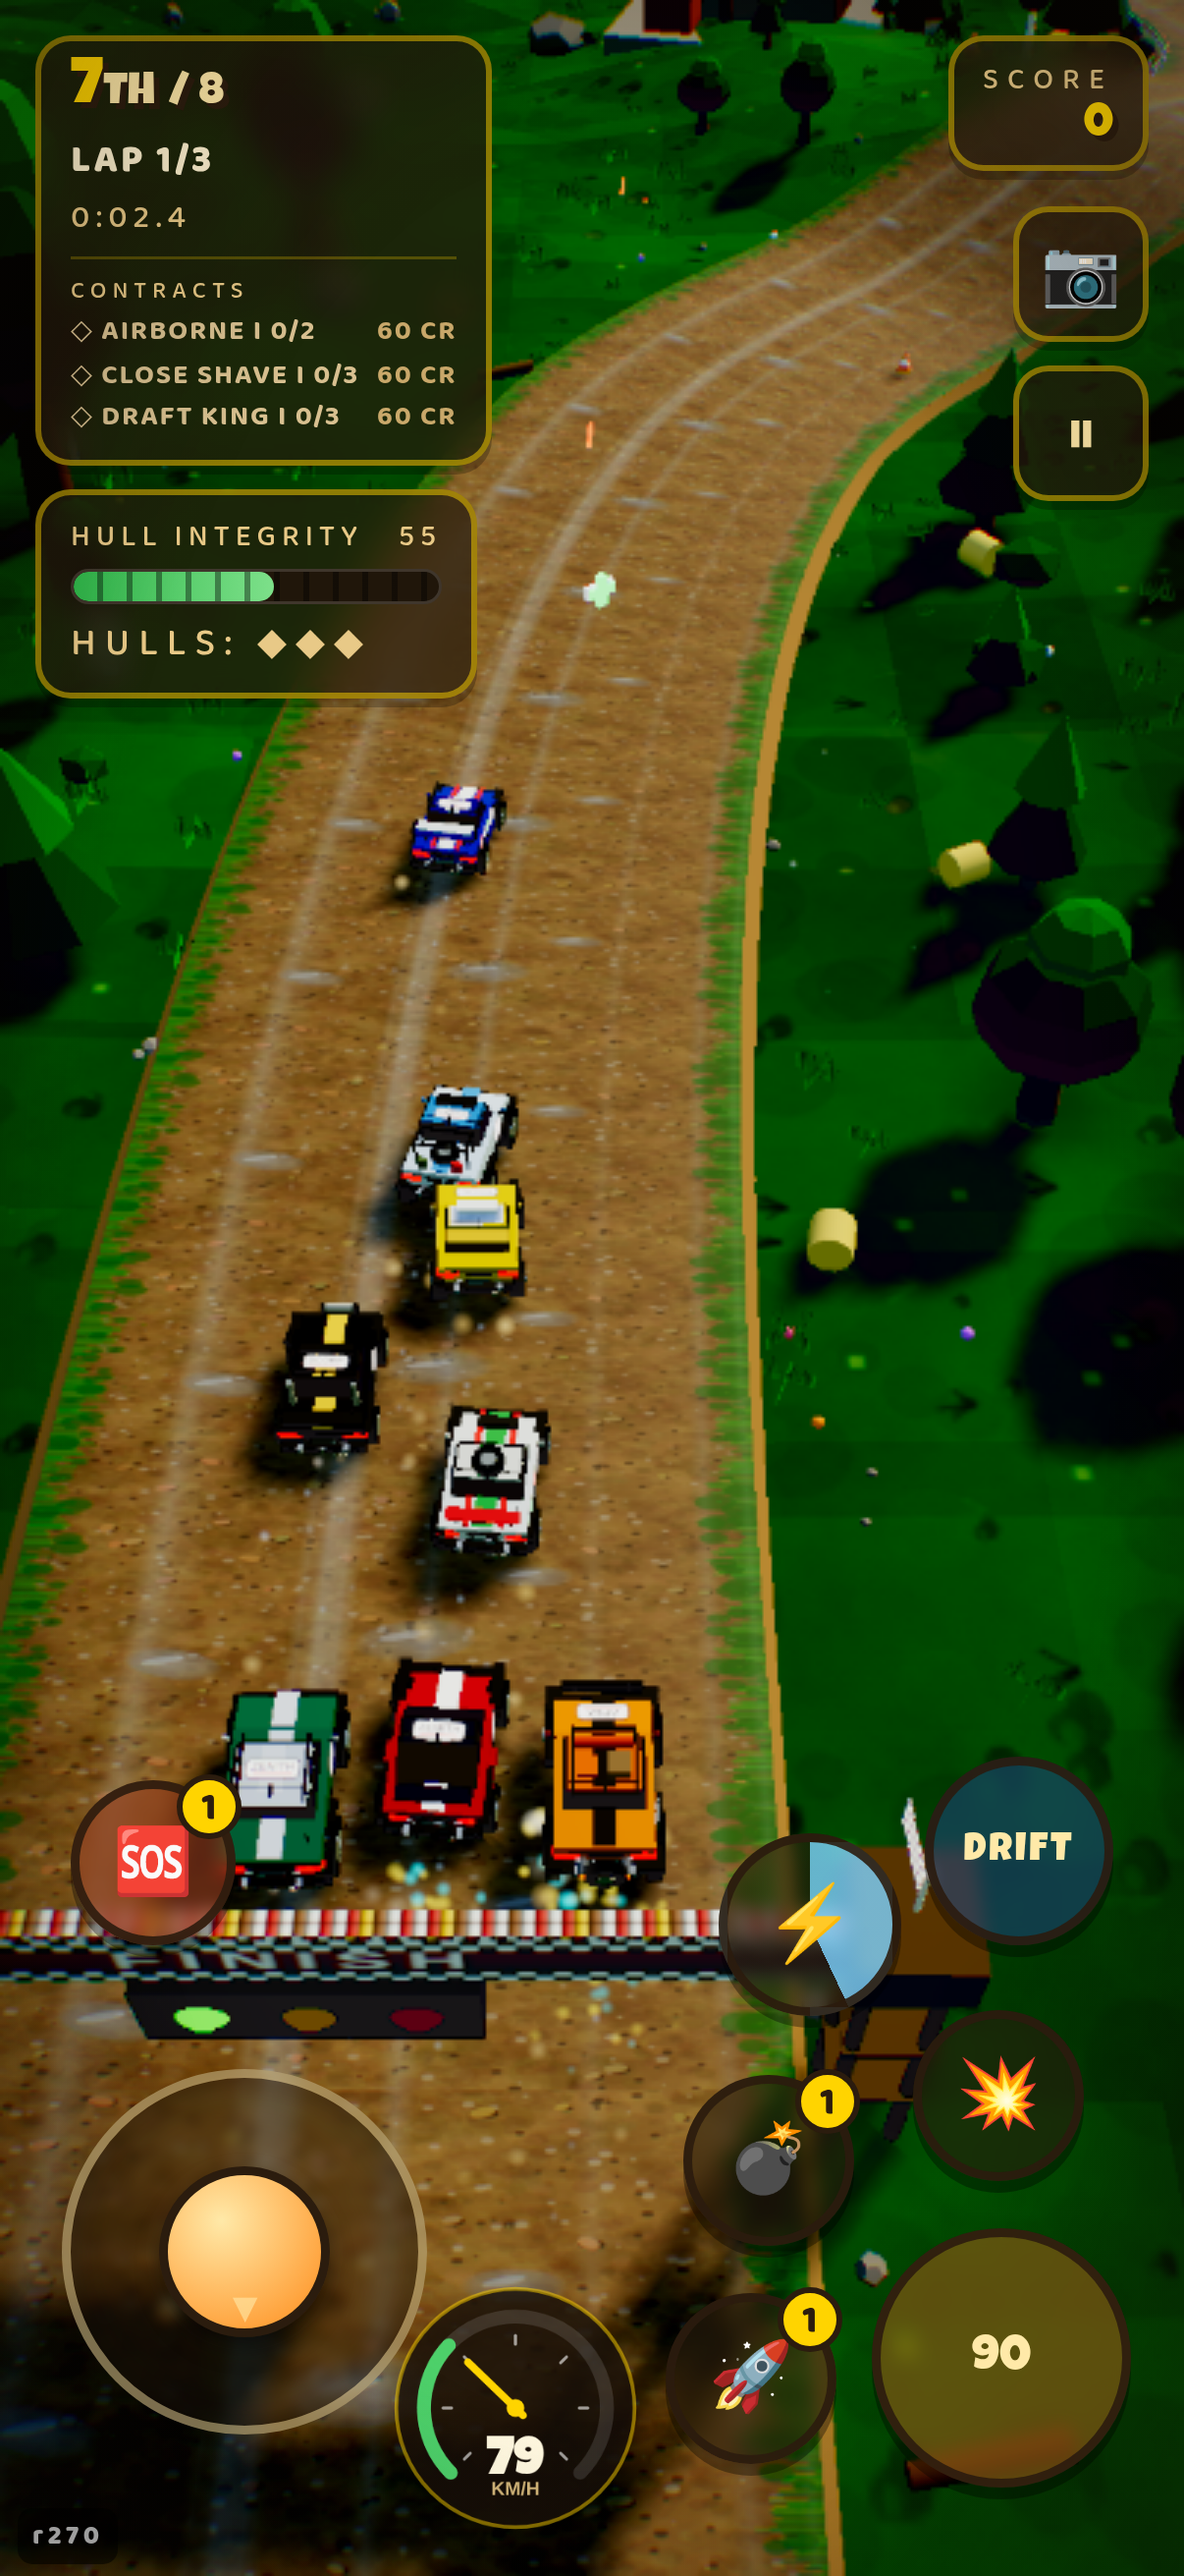
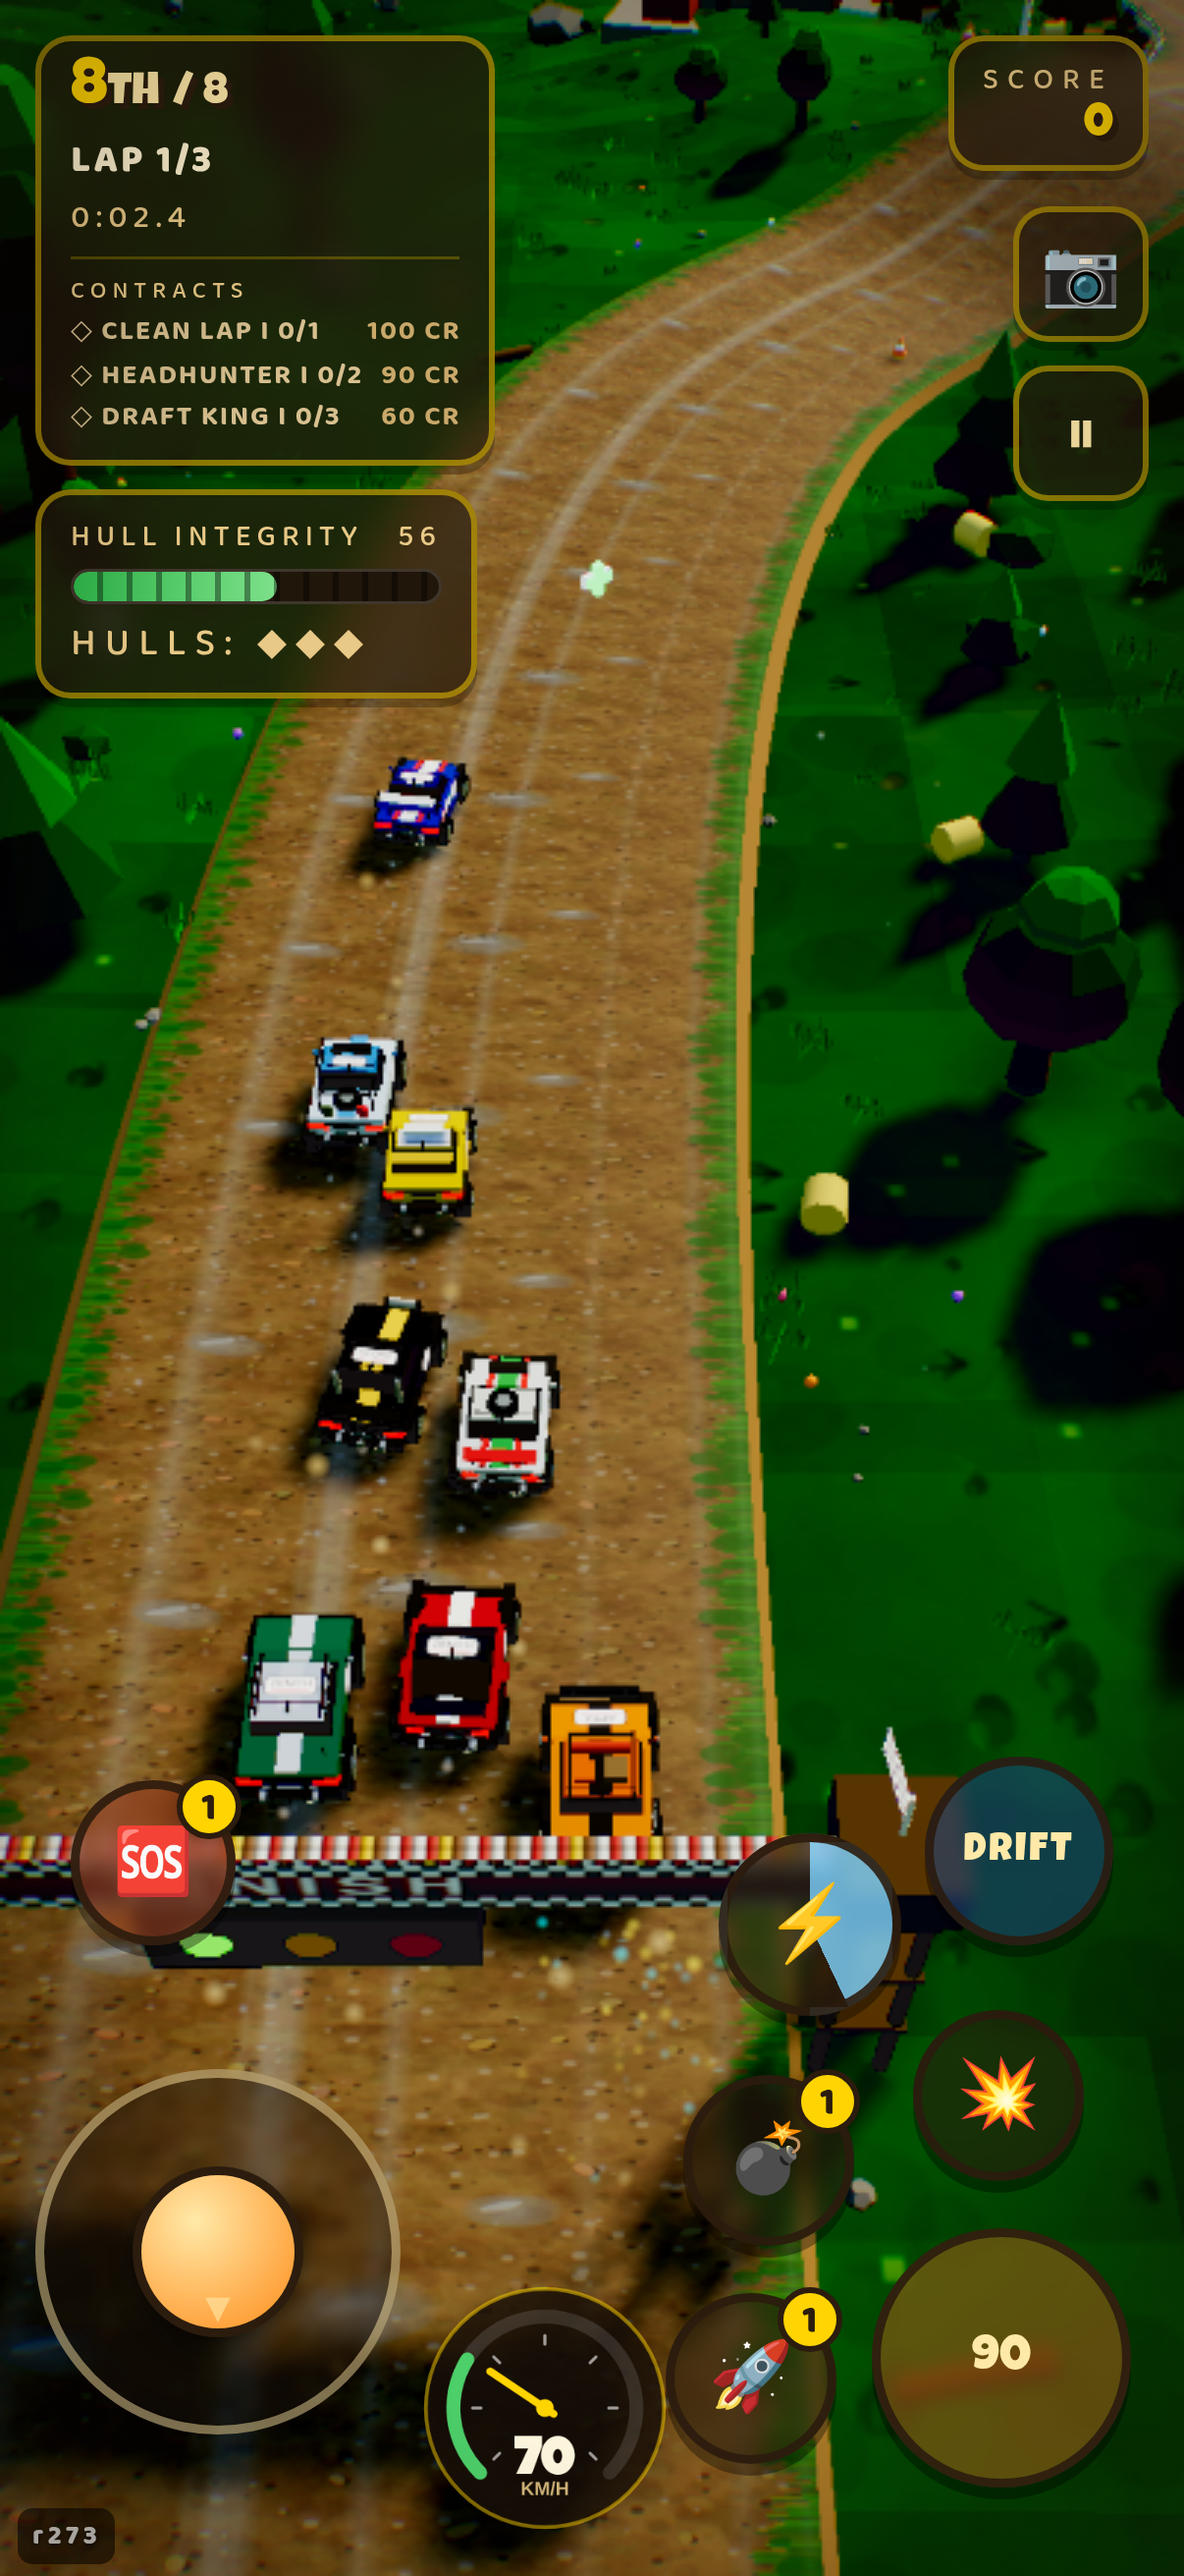
portrait HUD: split 687px² of speedo-on-ring overlap between the two of them
gates.mjs for the berm push found landscape red on phone-portrait — red on
pristine origin/main too: the r273 HUD pass biased the speedo left into
the joystick ring's rest x on a 402-wide screen. The ring now rests at 40%
of its zone (9px left), the speedo bias eases to -16px (10px right); both
keep what they were placed for, with 6-8px measured clearance each side.
landscape.mjs green in both orientations; full suite green.

Claude-Session: https://claude.ai/code/session_012Nfmy81xQ6fbthufAstGfz

diff --git a/src/input.js b/src/input.js
@@ -64,7 +64,12 @@ export class Input {
     const setKnob = (dx, dy) => { knob.style.transform = `translate(calc(${dx}px - 50%), calc(${dy}px - 50%))`; };
     const rest = () => {
       const r = zone.getBoundingClientRect();
-      base.style.left = Math.min(120, r.width * 0.45) + 'px';
+      // 0.40, not 0.45 — half of clearing the speedo. On a 402-wide portrait
+      // the ring at 45% of a 46%-wide zone reached x=145 and the speedo's
+      // left-biased dial starts at ~142: measured 687 px² of overlap by
+      // landscape.mjs, split between moving this ring 9 px left and the
+      // speedo bias 10 px right (index.html body.touch #speed-box).
+      base.style.left = Math.min(120, r.width * 0.40) + 'px';
       // 110 px UP FROM THE BOTTOM, OR A FIFTH OF THE SCREEN, whichever is
       // less. The constant is measured against the zone's own height, and the
       // zone is anchored to the bottom, so it put the ring's centre 110 px off

diff --git a/index.html b/index.html
@@ -324,7 +324,9 @@
      left, the weapon cluster on the right, and the speedo between them. At
      96px centred it reached under the 🚀 button — the one number you steer by,
      with a thumb parked on it. Smaller, and biased into the actual gap. */
-  body.touch #speed-box{bottom:14px;left:calc(50% - 26px)}
+  /* -16px, not -26px: the other half of clearing the joystick ring (see
+     input.js rest()). Still biased left of the 🚀 button by 8px measured. */
+  body.touch #speed-box{bottom:14px;left:calc(50% - 16px)}
   body.touch #speedo{width:86px;height:86px}
   body.touch #nitro-wrap{display:none}  /* nitro lives on the ⚡ button */
   body.touch #weapon-box{display:none}  /* ammo counts live on the buttons */

diff --git a/HANDOVER.md b/HANDOVER.md
@@ -3859,3 +3859,15 @@ Phone shots rarely name their world. tools-scratch/nearsamples.mjs answers
 at F=0.04 of each candidate, compared against the report — identified
 UNDERCITY in two rounds of probe shots. The probe is disposable; the trick
 is worth remembering.
+
+### AND THE GATE SUITE'S ONE RED, FIXED RATHER THAN STEPPED OVER
+Running the full gates.mjs for this push found `landscape` red on
+phone-portrait: speedo × joy-base, 687 px² — present on PRISTINE
+origin/main too (the r273 HUD reshuffle biased the speedo left into the
+ring's rest position on a 402-wide portrait). Split the correction between
+the two: the ring rests at 40% of the zone rather than 45% (9 px left),
+the speedo bias eases −26 → −16 px (10 px right). Both sides keep what
+they were placed for — the ring under the thumb, the dial out from under
+the 🚀 button (8 px clear, measured). landscape.mjs green in both
+orientations; the rest of the suite: pageerr, camsanity, boot, bayblack,
+playermoves, wedgetest, swallowed, bermtest — all green on this tree.
